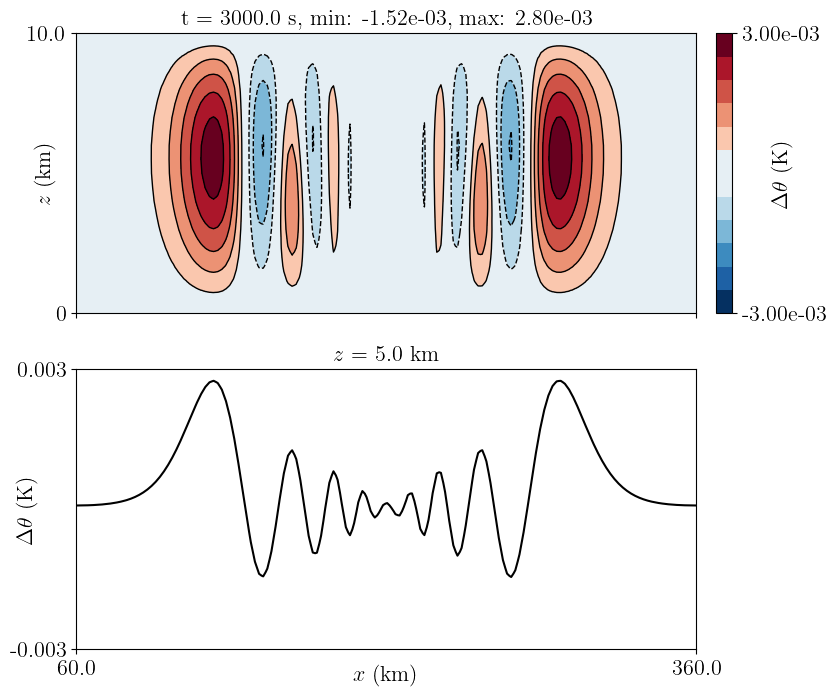
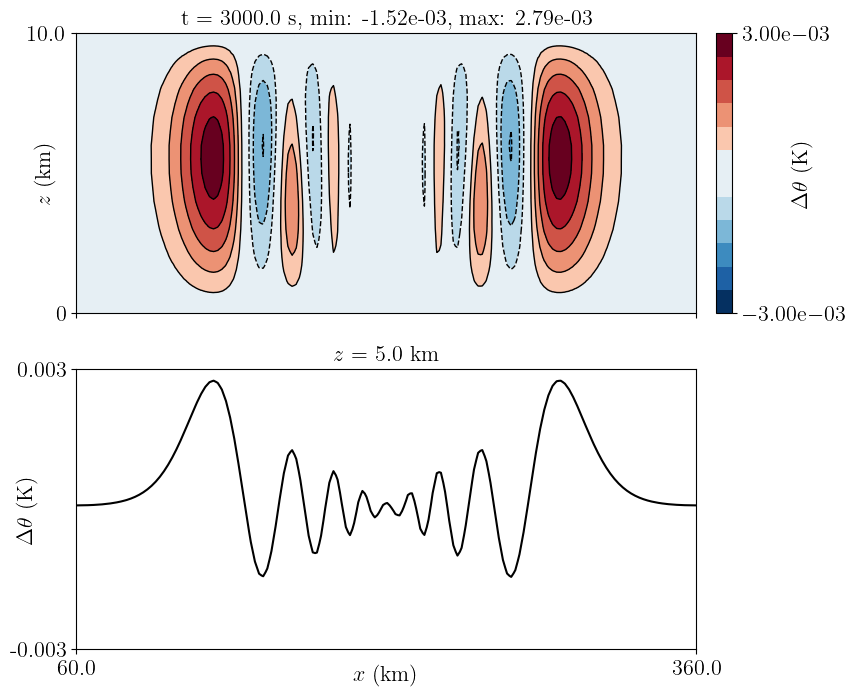
fix skamarock-klemp test

diff --git a/examples/compressible_euler/skamarock_klemp_nonhydrostatic.py b/examples/compressible_euler/skamarock_klemp_nonhydrostatic.py
@@ -22,11 +22,11 @@ from firedrake import (
 )
 import numpy as np
 from gusto import (
-    Domain, IO, OutputParameters, TRBDF2QuasiNewton, SemiImplicitQuasiNewton, SSPRK3,
-    DGUpwind, logger, SUPGOptions, Perturbation, CompressibleParameters,
+    Domain, IO, OutputParameters, TRBDF2QuasiNewton, SemiImplicitQuasiNewton,
+    DGUpwind, logger, EmbeddedDGOptions, Perturbation, CompressibleParameters,
     CompressibleEulerEquations, HydrostaticCompressibleEulerEquations,
     compressible_hydrostatic_balance, RungeKuttaFormulation, CompressibleSolver,
-    hydrostatic_parameters, SubcyclingOptions,
+    hydrostatic_parameters, SubcyclingOptions, SSPRK3
 )
 
 skamarock_klemp_nonhydrostatic_defaults = {
@@ -70,6 +70,12 @@ def skamarock_klemp_nonhydrostatic(
 
     element_order = 1
 
+    if timestepper == 'TR-BDF2':
+        gamma = (1-sqrt(2)/2)
+        gamma2 = (1 - 2*float(gamma))/(2 - 2*float(gamma))
+    else:
+        alpha = 0.5
+
     # ------------------------------------------------------------------------ #
     # Set up model objects
     # ------------------------------------------------------------------------ #
@@ -94,6 +100,11 @@ def skamarock_klemp_nonhydrostatic(
     # Adjust default directory name
     if hydrostatic and dirname == skamarock_klemp_nonhydrostatic_defaults['dirname']:
         dirname = f'hyd_switch_{dirname}'
+    if timestepper == 'TR-BDF2' and (
+        dirname == skamarock_klemp_nonhydrostatic_defaults['dirname']
+        or dirname == f'hyd_switch_{skamarock_klemp_nonhydrostatic_defaults["dirname"]}'
+    ):
+        dirname = f'{dirname}_trbdf2'
 
     # Dumping point data using legacy PointDataOutput is not supported in parallel
     if COMM_WORLD.size == 1:
@@ -116,11 +127,10 @@ def skamarock_klemp_nonhydrostatic(
     io = IO(domain, output, diagnostic_fields=diagnostic_fields)
 
     # Transport schemes
-    theta_opts = SUPGOptions()
-    if timestepper == 'SIQN':
-        subcycling_options = SubcyclingOptions(subcycle_by_courant=0.25)
-    else:
-        subcycling_options = None
+    # We include subcycling here for test coverage,
+    # it is not necessary to subcycle for this test case!
+    subcycling_options = SubcyclingOptions(subcycle_by_courant=0.25)
+    theta_opts = EmbeddedDGOptions()
     transported_fields = [
         SSPRK3(domain, "u", subcycling_options=subcycling_options),
         SSPRK3(
@@ -135,38 +145,43 @@ def skamarock_klemp_nonhydrostatic(
     transport_methods = [
         DGUpwind(eqns, "u"),
         DGUpwind(eqns, "rho", advective_then_flux=True),
-        DGUpwind(eqns, "theta", ibp=theta_opts.ibp)
+        DGUpwind(eqns, "theta")
     ]
 
     # Linear solver
-    if hydrostatic:
-        if timestepper == 'TR-BDF2':
-            raise ValueError('Hydrostatic equations not implmented for TR-BDF2')
-
+    # The use of advective-then-flux formulation and 2x2 Quasi-Newton iterations
+    # requires tau values to take implicit values for rho and theta
+    tau_values = {'rho': 1.0, 'theta': 1.0}
+    if hydrostatic and timestepper == 'TR-BDF2':
+        raise ValueError('Hydrostatic equations not implmented for TR-BDF2')
+    elif hydrostatic:
         linear_solver = CompressibleSolver(
             eqns, solver_parameters=hydrostatic_parameters,
-            overwrite_solver_parameters=True
+            overwrite_solver_parameters=True, alpha=alpha
+        )
+    elif timestepper == 'TR-BDF2':
+        tr_solver = CompressibleSolver(
+            eqns, alpha=gamma, tau_values=tau_values
+        )
+        bdf_solver = CompressibleSolver(
+            eqns, alpha=gamma2, tau_values=tau_values
         )
     else:
-        linear_solver = CompressibleSolver(eqns)
+        linear_solver = CompressibleSolver(
+            eqns, alpha=alpha, tau_values=tau_values
+        )
 
     # Time stepper
     if timestepper == 'TR-BDF2':
-        gamma = (1-sqrt(2)/2)
-        gamma2 = (1 - 2*float(gamma))/(2 - 2*float(gamma))
-        tr_solver = CompressibleSolver(eqns, alpha=gamma)
-        bdf_solver = CompressibleSolver(eqns, alpha=gamma2)
         stepper = TRBDF2QuasiNewton(
             eqns, io, transported_fields, transport_methods,
-            gamma=gamma,
-            tr_solver=tr_solver,
-            bdf_solver=bdf_solver
+            gamma=gamma, tr_solver=tr_solver, bdf_solver=bdf_solver
         )
 
     elif timestepper == 'SIQN':
         stepper = SemiImplicitQuasiNewton(
             eqns, io, transported_fields, transport_methods,
-            linear_solver=linear_solver
+            alpha=alpha, linear_solver=linear_solver
         )
     # ------------------------------------------------------------------------ #
     # Initial conditions
@@ -269,7 +284,7 @@ if __name__ == "__main__":
         default=skamarock_klemp_nonhydrostatic_defaults['hydrostatic']
     )
     parser.add_argument(
-        'timestepper',
+        '--timestepper',
         help='Which time stepper to use, takes SIQN or TR-BDF2',
         type=str,
         choices=['SIQN', 'TR-BDF2'],

diff --git a/plotting/compressible_euler/plot_skamarock_klemp_nonhydrostatic.py b/plotting/compressible_euler/plot_skamarock_klemp_nonhydrostatic.py
@@ -18,7 +18,7 @@ from tomplot import (
     extract_gusto_field, reshape_gusto_data, add_colorbar_fig
 )
 
-test = 'skamarock_klemp_nonhydrostatic'
+test = 'skamarock_klemp_nonhydrostatic_trbdf2'
 
 # ---------------------------------------------------------------------------- #
 # Directory for results and plots
